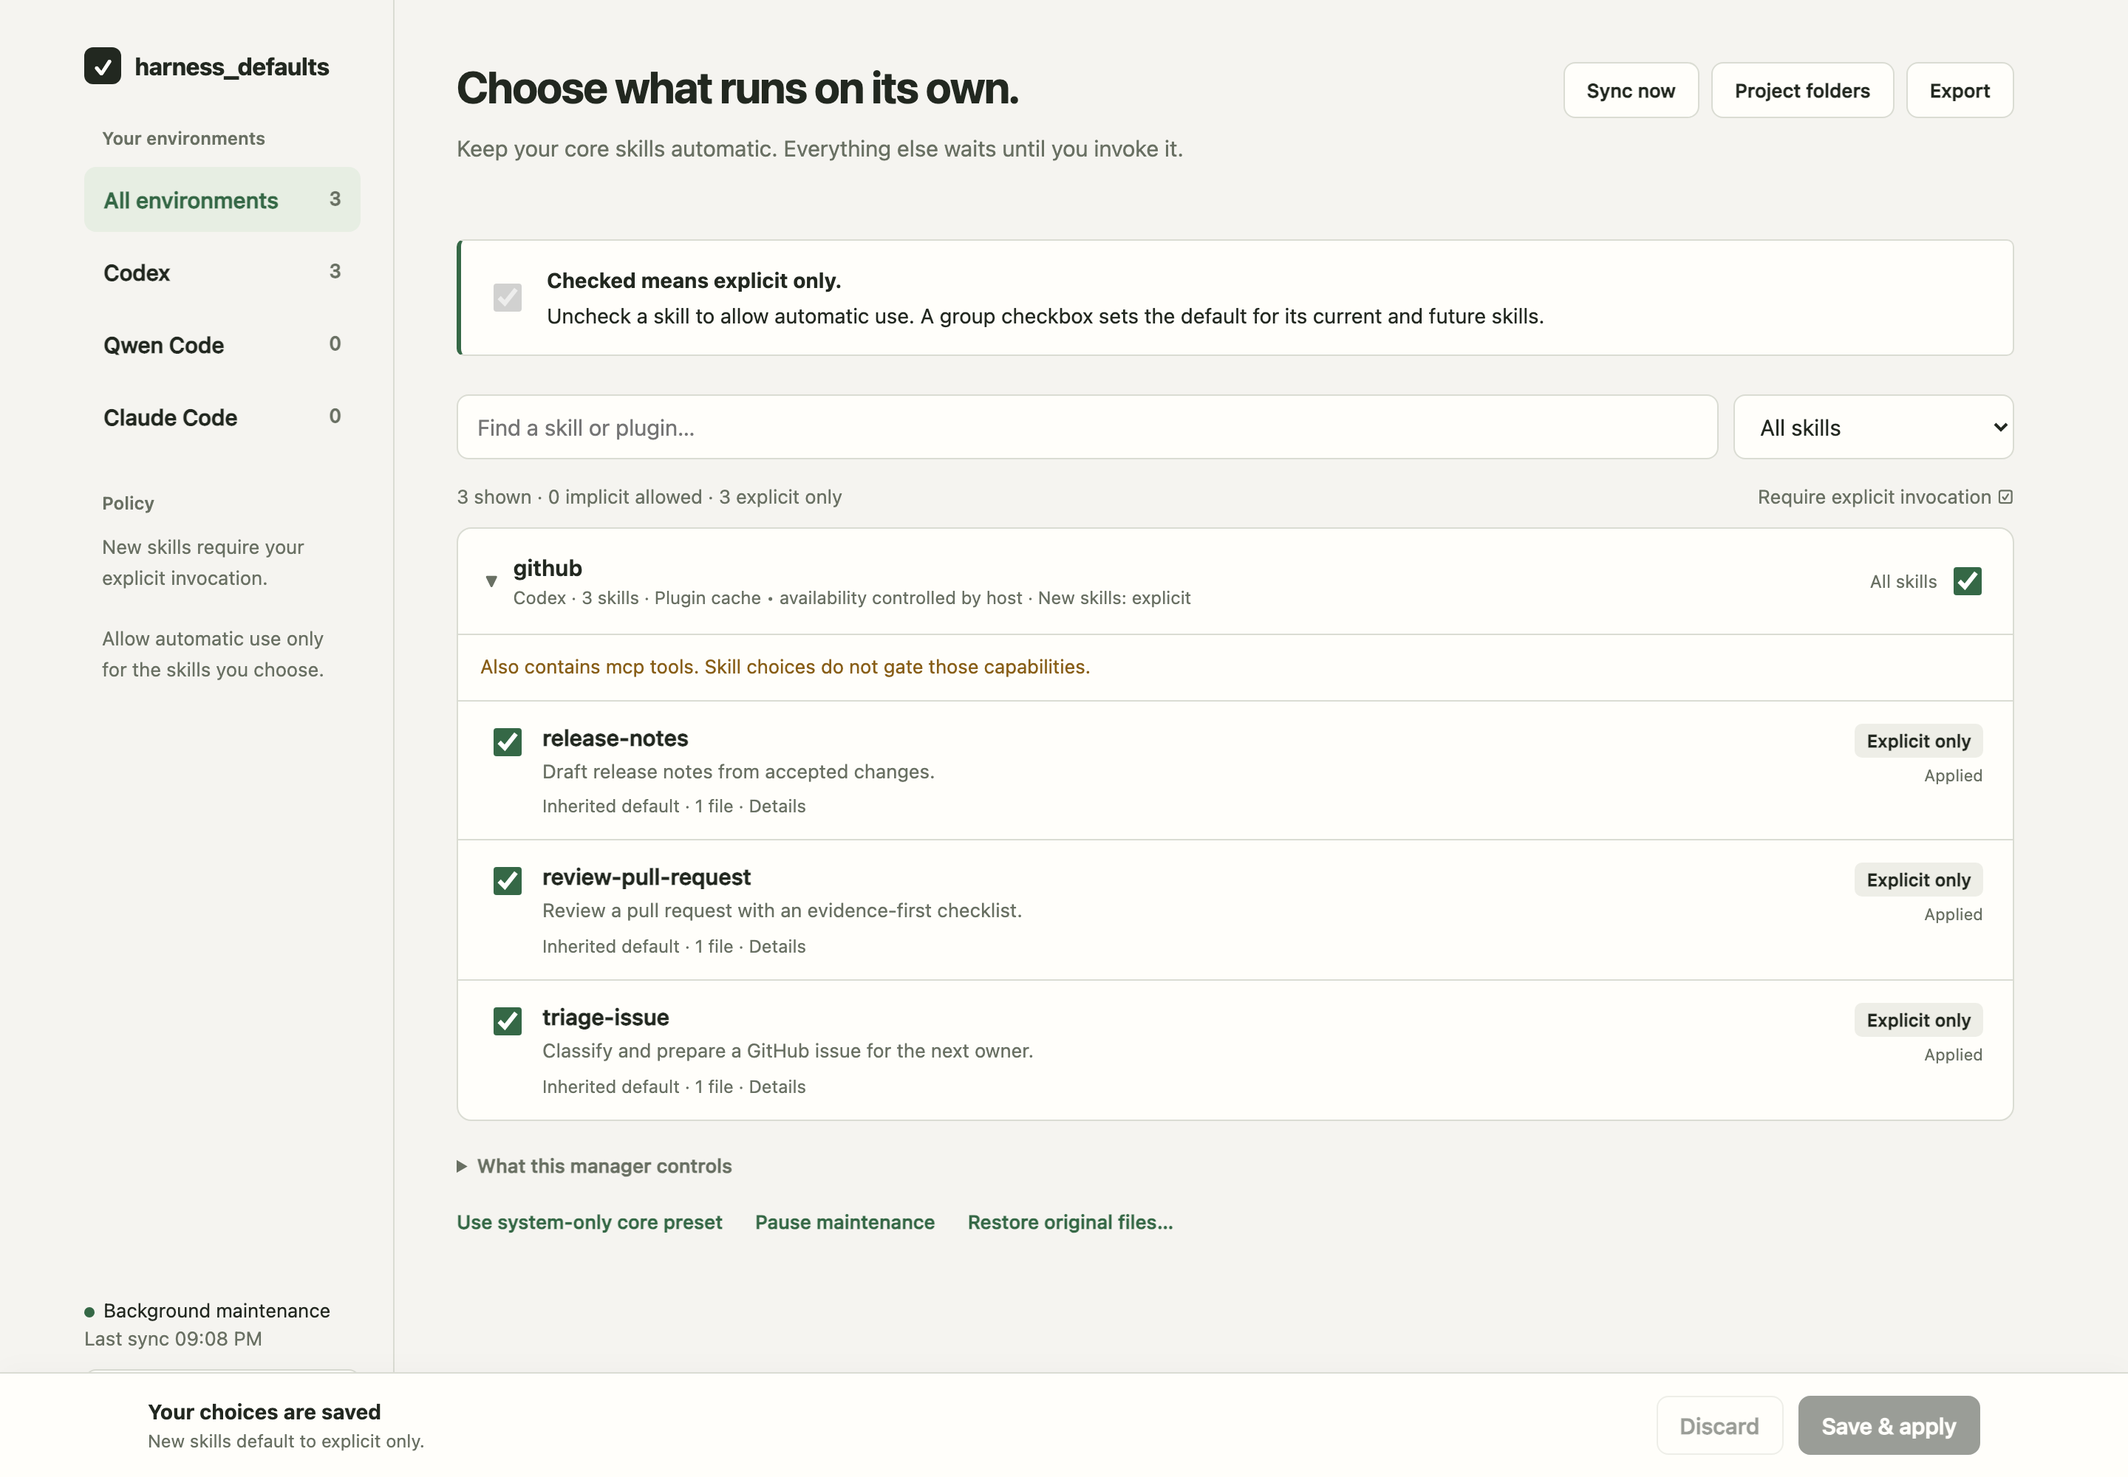
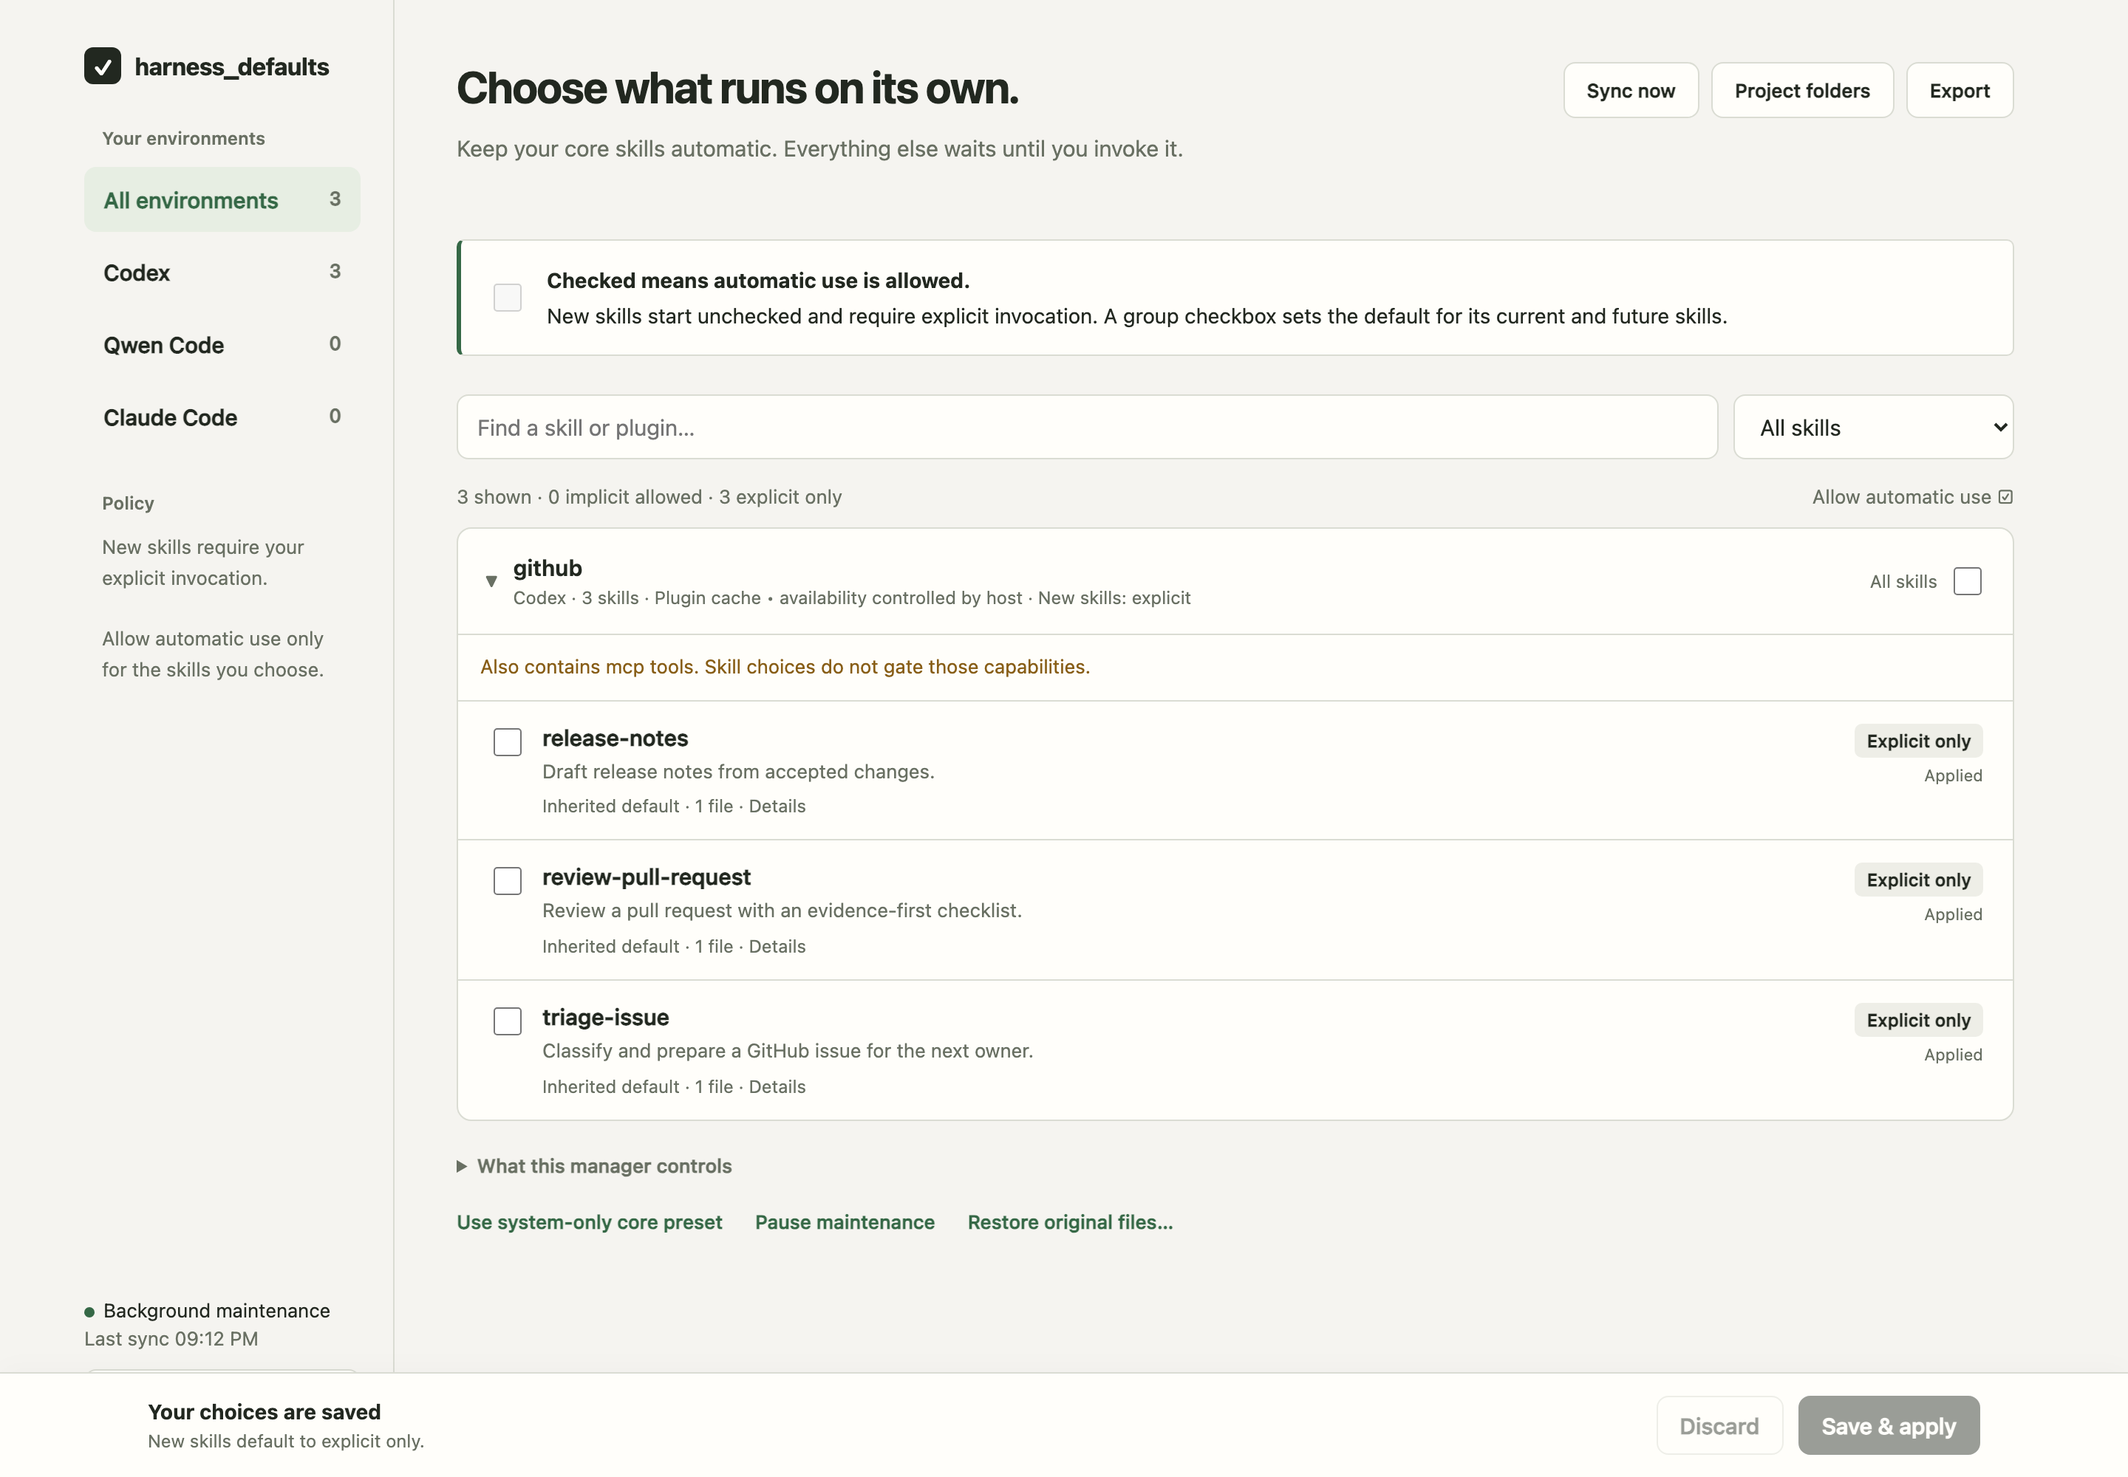
feat: make checks allow implicit invocation

diff --git a/harness_defaults/ui.html b/harness_defaults/ui.html
@@ -10,10 +10,10 @@
 </style></head><body>
 <div class="shell"><aside><div class="wordmark"><span class="mark" aria-hidden="true">✓</span>harness_defaults</div><div><p class="aside-title">Your environments</p><nav class="nav" aria-label="Filter by environment" id="hosts"></nav></div><div class="aside-bottom"><p class="aside-title">Policy</p><div style="padding:0 12px;font-size:13px;line-height:1.6;color:var(--muted)">New skills require your explicit invocation.<br><br>Allow automatic use only for the skills you choose.</div></div><div class="service"><div id="service-state"><span class="dot"></span>Connecting…</div><div class="muted" id="last-sync"></div><button id="pause">Pause maintenance</button></div></aside>
 <main><header class="intro"><div class="top"><div><h1>Choose what runs on its own.</h1><p>Keep your core skills automatic. Everything else waits until you invoke it.</p></div><div class="toolbar"><button id="rescan">Sync now</button><button id="projects">Project folders</button><button id="export">Export</button></div></div></header>
-<div class="rule"><input type="checkbox" checked disabled aria-label="Example: require explicit invocation"><p><strong>Checked means explicit only.</strong>Uncheck a skill to allow automatic use. A group checkbox sets the default for its current and future skills.</p></div>
+<div class="rule"><input type="checkbox" disabled aria-label="Example: allow implicit invocation"><p><strong>Checked means automatic use is allowed.</strong>New skills start unchecked and require explicit invocation. A group checkbox sets the default for its current and future skills.</p></div>
 <div id="alert" class="notice" role="status" aria-live="polite"></div>
 <div class="filters"><input type="search" id="search" placeholder="Find a skill or plugin…" aria-label="Search skills and plugins"><select id="filter" aria-label="Filter by invocation policy"><option value="all">All skills</option><option value="implicit">Implicit allowed</option><option value="explicit">Explicit only</option><option value="attention">Needs attention</option></select></div>
-<div class="list-heading"><span id="list-count">Loading your skills…</span><span class="legend">Require explicit invocation ☑</span></div>
+<div class="list-heading"><span id="list-count">Loading your skills…</span><span class="legend">Allow automatic use ☑</span></div>
 <section id="list" aria-label="Skill invocation choices"></section>
 <details class="coverage"><summary>What this manager controls</summary><ul><li>Local skill metadata for Codex, Qwen Code, and Claude Code. It does not configure hosted ChatGPT or claude.ai accounts.</li><li>Plugin tools, hooks, and injected instructions have separate controls. Their presence is shown below each affected group.</li><li>New files and updates are reconciled every 15 seconds after a short settling period. Open tasks may retain already-loaded instructions; start a fresh task after changing a policy.</li><li>Cached copies share one choice across versions. A cached plugin is not necessarily enabled by its host.</li><li>Only registered project folders are scanned. Register each relevant nested project separately.</li></ul><div id="coverage-notices"></div></details>
 <div style="display:flex;gap:22px;flex-wrap:wrap"><button class="link" id="core">Use system-only core preset</button><button class="link" id="toggle-maintenance">Pause maintenance</button><button class="link" id="restore">Restore original files…</button></div>
@@ -48,10 +48,10 @@ const groups=state.groups.filter(g=>(host==='all'||host===g.host));const html=[]
 for(const g of groups){const all=state.skills.filter(r=>r.group===g.id);const rows=all.filter(r=>(!query||(r.name+' '+r.description+' '+g.label).toLowerCase().includes(query))&&(filter==='all'||filter==='implicit'&&!mode(r,p)||filter==='explicit'&&mode(r,p)||filter==='attention'&&(r.errors.length||r.warnings.length||r.status==='pending')));
 if(!rows.length){if(!all.length&&g.capabilities.length&&!query&&filter==='all')html.push(`<details class="group"><summary><span class="chevron">▼</span><span class="group-title">${esc(g.label)}<small>${labels[g.host]} · No local skills</small></span></summary><div class="notice warning" style="margin:0;border:0">${esc(g.capabilities.join(', '))} — separate controls; not managed by the skill checkbox.</div></details>`);continue}
 visible+=rows.length;const explicit=all.filter(r=>mode(r,p)).length;
-html.push(`<details class="group" data-group="${esc(g.id)}" ${openGroups.has(g.id)||query?'open':''}><summary><span class="chevron">▼</span><span class="group-title">${esc(g.label)}<small>${labels[g.host]} · ${all.length} ${all.length===1?'skill':'skills'} · ${esc(g.source)} · New skills: ${(p.groups[g.id]??true)?'explicit':'implicit'}</small></span><label class="group-default" title="Set all current and future skills in this group"><span>All skills</span><input type="checkbox" data-group-choice="${esc(g.id)}" aria-label="Require explicit invocation for ${esc(g.label)} in ${labels[g.host]}" ${explicit===all.length?'checked':''} data-mixed="${explicit>0&&explicit<all.length}"></label></summary>`);
+html.push(`<details class="group" data-group="${esc(g.id)}" ${openGroups.has(g.id)||query?'open':''}><summary><span class="chevron">▼</span><span class="group-title">${esc(g.label)}<small>${labels[g.host]} · ${all.length} ${all.length===1?'skill':'skills'} · ${esc(g.source)} · New skills: ${(p.groups[g.id]??true)?'explicit':'implicit'}</small></span><label class="group-default" title="Allow automatic use for all current and future skills in this group"><span>All skills</span><input type="checkbox" data-group-choice="${esc(g.id)}" aria-label="Allow implicit invocation for ${esc(g.label)} in ${labels[g.host]}" ${explicit===0?'checked':''} data-mixed="${explicit>0&&explicit<all.length}"></label></summary>`);
 if(g.capabilities.length)html.push(`<div class="notice warning" style="margin:0;border-width:1px 0 0;border-radius:0">Also contains ${esc(g.capabilities.join(', ').toLowerCase())}. Skill choices do not gate those capabilities.</div>`);
 for(const r of rows){const ex=mode(r,p),over=r.id in p.skills,changed=(r.id in (draft.skills||{}))||(r.group in (draft.groups||{}));const issue=r.errors.length?'Needs attention':r.status==='waiting'?'Waiting for stable files':r.status==='pending'?'Awaiting sync':'Applied';
-html.push(`<article class="skill"><input type="checkbox" id="s-${esc(r.id)}" data-skill="${esc(r.id)}" ${ex?'checked':''} aria-label="Require explicit invocation for ${esc(r.name)}"><div><label class="skill-label" for="s-${esc(r.id)}">${esc(r.name)}</label>${r.description?`<p class="description">${esc(r.description)}</p>`:''}<details class="filedetails"><summary>${over?'Individual choice':'Inherited default'} · ${r.files.length} ${r.files.length===1?'file':'copies'} · Details</summary><pre>${r.files.map(f=>esc(f.path)).join('\n')}</pre>${r.warnings.map(w=>`<p class="warning">${esc(w)}</p>`).join('')}${r.errors.map(w=>`<p class="error">${esc(w)}</p>`).join('')}${over?`<button class="smallbtn" data-inherit="${esc(r.id)}">Use group default</button>`:''}</details></div><div class="skill-right"><span class="mode ${ex?'':'implicit'}">${ex?'Explicit only':'Implicit allowed'}</span><div class="substatus ${r.errors.length?'error':''}">${changed?'Unsaved':esc(issue)}</div></div></article>`)}html.push('</details>')}
+html.push(`<article class="skill"><input type="checkbox" id="s-${esc(r.id)}" data-skill="${esc(r.id)}" ${ex?'':'checked'} aria-label="Allow implicit invocation for ${esc(r.name)}"><div><label class="skill-label" for="s-${esc(r.id)}">${esc(r.name)}</label>${r.description?`<p class="description">${esc(r.description)}</p>`:''}<details class="filedetails"><summary>${over?'Individual choice':'Inherited default'} · ${r.files.length} ${r.files.length===1?'file':'copies'} · Details</summary><pre>${r.files.map(f=>esc(f.path)).join('\n')}</pre>${r.warnings.map(w=>`<p class="warning">${esc(w)}</p>`).join('')}${r.errors.map(w=>`<p class="error">${esc(w)}</p>`).join('')}${over?`<button class="smallbtn" data-inherit="${esc(r.id)}">Use group default</button>`:''}</details></div><div class="skill-right"><span class="mode ${ex?'':'implicit'}">${ex?'Explicit only':'Implicit allowed'}</span><div class="substatus ${r.errors.length?'error':''}">${changed?'Unsaved':esc(issue)}</div></div></article>`)}html.push('</details>')}
 $('#list').innerHTML=html.join('')||`<div class="empty"><h2>${state.skills.some(r=>host==='all'||r.host===host)?'No matching skills':'No local skills found yet'}</h2><p>${host==='claude'&&!state.skills.some(r=>r.host==='claude')?'Claude Code is ready to manage. Its local skills and plugin cache will be discovered when installed.':'Try another search or add a project folder.'}</p></div>`;
 $$('[data-mixed="true"]').forEach(x=>x.indeterminate=true);$$('.group[data-group]').forEach(el=>el.addEventListener('toggle',()=>{if(el.open)openGroups.add(el.dataset.group);else openGroups.delete(el.dataset.group)}));
 $('#list-count').textContent=`${visible} shown · ${state.skills.filter(r=>!mode(r,p)).length} implicit allowed · ${state.skills.filter(r=>mode(r,p)).length} explicit only`;
@@ -60,7 +60,7 @@ $('#coverage-notices').innerHTML=state.notices.map(n=>`<p>${esc(n)}</p>`).join('
 async function load(){try{state=await api('state');if(!initialized){state.groups.forEach(g=>openGroups.add(g.id));try{const saved=JSON.parse(localStorage.getItem('invocation-draft'));if(saved&&saved.revision===state.policy.revision){draft=saved.draft;toast('Recovered your unsaved choices.')}else if(saved){error('A previous draft uses an older policy. Your saved choices are shown; the old draft was not applied.');localStorage.removeItem('invocation-draft')}}catch{}initialized=true}render();if(state.errors.length)error(`${state.errors.length} file ${state.errors.length===1?'issue needs':'issues need'} attention. Filter by “Needs attention” to inspect them.`)}catch(e){error(e.message);$('#save-status').textContent='Unable to load policy';$('#list-count').textContent='Not connected'}}
 $('#hosts').addEventListener('click',e=>{const b=e.target.closest('[data-host]');if(b){host=b.dataset.host;render()}});
 $('#list').addEventListener('click',e=>{if(e.target.closest('.group-default'))e.stopPropagation();const b=e.target.closest('[data-inherit]');if(b)stage('skills',b.dataset.inherit,null)});
-$('#list').addEventListener('change',e=>{if(e.target.dataset.skill)stage('skills',e.target.dataset.skill,e.target.checked);if(e.target.dataset.groupChoice){const gid=e.target.dataset.groupChoice;draft.groups??={};draft.groups[gid]=e.target.checked;draft.skills??={};for(const r of state.skills.filter(r=>r.group===gid))draft.skills[r.id]=null;persist();render()}});
+$('#list').addEventListener('change',e=>{if(e.target.dataset.skill)stage('skills',e.target.dataset.skill,!e.target.checked);if(e.target.dataset.groupChoice){const gid=e.target.dataset.groupChoice;draft.groups??={};draft.groups[gid]=!e.target.checked;draft.skills??={};for(const r of state.skills.filter(r=>r.group===gid))draft.skills[r.id]=null;persist();render()}});
 $('#search').addEventListener('input',render);$('#filter').addEventListener('change',render);
 $('#save').onclick=async()=>{controlBusy(true);try{const r=await api('save',{revision:state.policy.revision,...draft});state=r.state;draft={};persist();$('#alert').textContent='';render();if(r.result.errors.length)error(`Choices saved, but ${r.result.errors.length} files need attention.`);else toast(r.result.paused?'Choices saved. Maintenance is paused.':`Saved. ${r.result.changed} files updated.${r.result.waiting?' Other files are settling.':''}`)}catch(e){error(e.message)}finally{controlBusy(false)}};
 $('#discard').onclick=()=>{draft={};persist();$('#alert').textContent='';load()};

diff --git a/tests/browser_check.py b/tests/browser_check.py
@@ -24,10 +24,10 @@ def main():
         page.on('pageerror',lambda e:errors.append(str(e)))
         page.goto(url);page.wait_for_load_state('networkidle')
         expect(page.get_by_role('heading',name='Choose what runs on its own.')).to_be_visible()
-        choice=page.get_by_role('checkbox',name='Require explicit invocation for deploy-helper',exact=True)
-        expect(choice).to_be_checked();choice.uncheck()
+        choice=page.get_by_role('checkbox',name='Allow implicit invocation for deploy-helper',exact=True)
+        expect(choice).not_to_be_checked();choice.check()
         expect(page.get_by_role('button',name='Save & apply',exact=True)).to_be_enabled()
-        page.reload();page.wait_for_load_state('networkidle');expect(choice).not_to_be_checked()
+        page.reload();page.wait_for_load_state('networkidle');expect(choice).to_be_checked()
         page.evaluate("window.originalFetch = window.fetch; window.fetch = (...a) => new Promise(resolve => setTimeout(resolve, 500)).then(() => window.originalFetch(...a));")
         page.get_by_role('button',name='Save & apply',exact=True).click()
         expect(choice).to_be_disabled()
@@ -37,9 +37,9 @@ def main():
         page.get_by_role('searchbox').fill('nothing matches');expect(page.get_by_role('heading',name='No matching skills')).to_be_visible()
         page.get_by_role('searchbox').fill('')
         page.get_by_role('button',name='Qwen Code 1',exact=True).click();expect(page.locator('article.skill')).to_have_count(1)
-        group=page.get_by_role('checkbox',name='Require explicit invocation for Personal skills in Qwen Code',exact=True)
-        group.uncheck();expect(page.get_by_role('checkbox',name='Require explicit invocation for review-helper',exact=True)).not_to_be_checked()
-        page.get_by_role('button',name='Discard',exact=True).click();expect(page.get_by_role('checkbox',name='Require explicit invocation for review-helper',exact=True)).to_be_checked()
+        group=page.get_by_role('checkbox',name='Allow implicit invocation for Personal skills in Qwen Code',exact=True)
+        group.check();expect(page.get_by_role('checkbox',name='Allow implicit invocation for review-helper',exact=True)).to_be_checked()
+        page.get_by_role('button',name='Discard',exact=True).click();expect(page.get_by_role('checkbox',name='Allow implicit invocation for review-helper',exact=True)).not_to_be_checked()
         page.get_by_role('button',name='Export',exact=True).click()
         expect(page.get_by_role('textbox',name='Exported invocation policy')).to_have_value(__import__('re').compile('"schema": 1'))
         page.get_by_role('button',name='Close',exact=True).click()

diff --git a/README.md b/README.md
@@ -38,10 +38,10 @@ harness_defaults ui
 
 | Checkbox | Meaning |
 | --- | --- |
-| Checked | The skill requires an explicit invocation. |
-| Unchecked | The host may invoke it automatically. |
+| Checked | The host may invoke the skill automatically. |
+| Unchecked | The skill requires an explicit invocation. |
 
-New skills are checked by default. Group controls apply a default to a plugin or extension; individual choices override a group default. The initial core preset keeps the existing Codex system skills implicit, and you can change it in the UI.
+New skills are unchecked by default. Group controls apply a default to a plugin or extension; individual choices override a group default. The initial core preset keeps the existing Codex system skills implicit, and you can change it in the UI.
 
 ## Terminal commands
 
